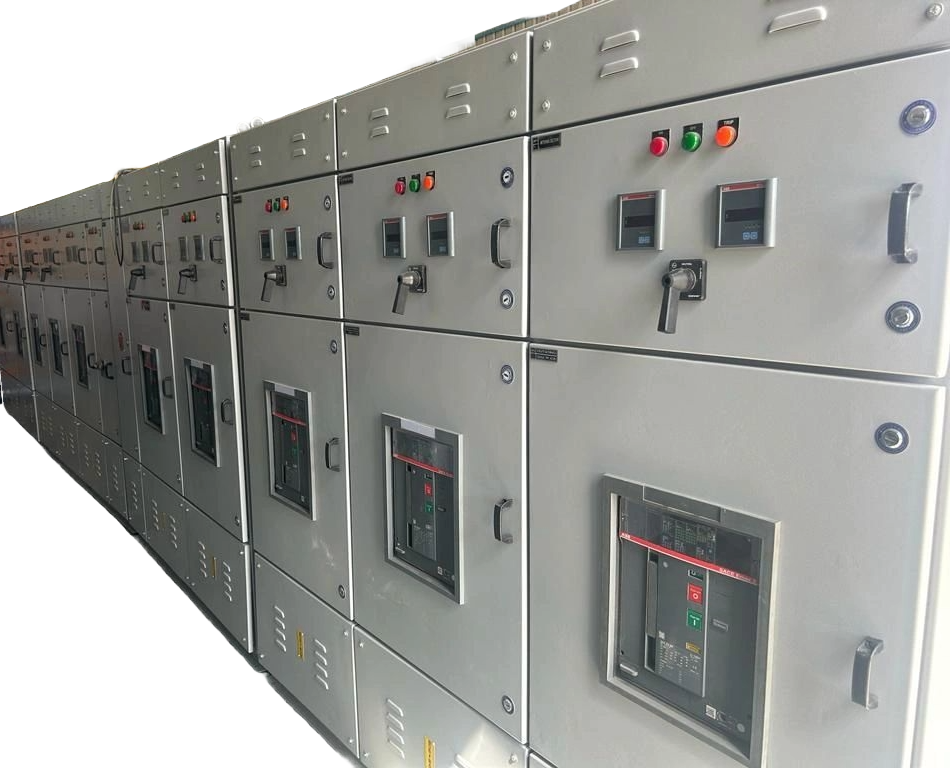
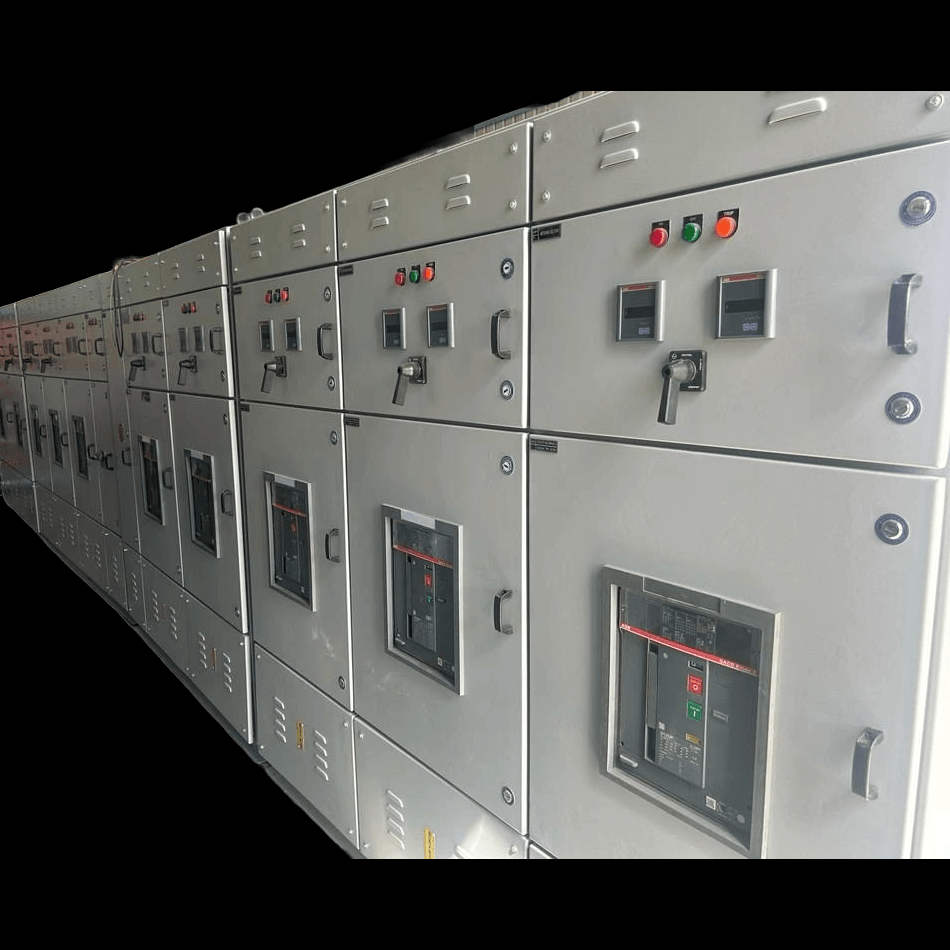
Final changes by client told at phone

diff --git a/automationControl.html b/automationControl.html
@@ -527,7 +527,7 @@
 
     <div class="categorySections" id="programablePanel">
       <div class="categoryImgCont">
-        <img src="assets/img/solutions/acAndMs/PLC PANEL.jpg"  alt="">
+        <img src="assets/img/solutions/acAndMs/PLC PANEL.png"  alt="">
       </div>
       <div class="categoryDescCont">
         <h2>Programmable Logic Controller (PLC) Panel</h2>
@@ -551,7 +551,7 @@
 
     <div class="categorySections" id="marshallingPanel">
       <div class="categoryImgCont">
-        <img src="assets/img/solutions/acAndMs/marshalling-panel.png"  alt="">
+        <img src="assets/img/solutions/acAndMs/marshalling-panel.jpg"  alt="">
       </div>
       <div class="categoryDescCont">
         <h2>Marshalling Panel</h2>
@@ -575,7 +575,7 @@
 
     <div class="categorySections" id="dcs">
       <div class="categoryImgCont">
-        <img src="assets/img/solutions/acAndMs/dcs-Photoroom1.png"alt="">
+        <img src="assets/img/solutions/acAndMs/dcs-Photoroom.png"alt="">
       </div>
       <div class="categoryDescCont">
         <h2>Distributed Control System (DCS)</h2>
@@ -587,7 +587,7 @@
 
     <div class="categorySections reverseCategorySection" id="ems">
         <div class="categoryImgCont">
-          <img src="assets/img/solutions/acAndMs/EMS-Photoroom.png" alt="">
+          <img src="assets/img/solutions/acAndMs/EMS.jpg" alt="">
         </div>
         <div class="categoryDescCont">
           <h2>Energy Management System (EMS)</h2>
@@ -599,7 +599,7 @@
   
       <div class="categorySections" id="supervisoryCADA">
         <div class="categoryImgCont">
-          <img src="assets/img/solutions/acAndMs/SCADA-Photoroom.png"alt="">
+          <img src="assets/img/solutions/acAndMs/SCADA.webp"alt="">
         </div>
         <div class="categoryDescCont">
           <h2>Supervisory Control and Data Acquisition (SCADA)</h2>
@@ -623,7 +623,7 @@
   
       <div class="categorySections" id="CMLVMotors">
         <div class="categoryImgCont">
-          <img src="assets/img/solutions/acAndMs/CONDITION MONITORING FOR MOTORS1.png"  alt="">
+          <img src="assets/img/solutions/acAndMs/CONDITION MONITORING FOR MOTORS.png"  alt="">
         </div>
         <div class="categoryDescCont">
           <h2>Condition Monitoring for LV Motors</h2>

diff --git a/lcAndMManagement.html b/lcAndMManagement.html
@@ -527,7 +527,7 @@
 
     <div class="categorySections" id="moCoPanel">
       <div class="categoryImgCont">
-        <img src="assets/img/solutions/lcAndMc/mcc Panel.jpg" style="border-radius: 0px;" alt="">
+        <img src="assets/img/solutions/lcAndMc/mcc Panel-Photoroom.png" alt="">
       </div>
       <div class="categoryDescCont">
         <h2>Motor Control Panels (DOL/Star-Delta/Softstarter/VFD based)</h2>
@@ -539,7 +539,7 @@
 
     <div class="categorySections reverseCategorySection" id="imccPanel">
       <div class="categoryImgCont">
-        <img src="assets/img/solutions/lcAndMc/IMCC.jpg" style="border-radius: 0px;" alt="">
+        <img src="assets/img/solutions/lcAndMc/IMCC-Photoroom.png"  alt="">
       </div>
       <div class="categoryDescCont">
         <h2>Intelligent Motor Control Centre (IMCC) Panel (ABB-UMC)</h2>
@@ -551,7 +551,7 @@
 
     <div class="categorySections" id="PDBPanel">
       <div class="categoryImgCont">
-        <img src="assets/img/solutions/lcAndMc/pdb pANEL.png" style="border-radius: 0px;" alt="">
+        <img src="assets/img/solutions/lcAndMc/pdb pANEL.png" alt="">
       </div>
       <div class="categoryDescCont">
         <h2>Power Distribution Board (PDB) Panel</h2>
@@ -563,7 +563,7 @@
 
     <div class="categorySections reverseCategorySection" id="LDBPanel">
       <div class="categoryImgCont">
-        <img src="assets/img/solutions/lcAndMc/Lighting Distribution Board (LDB) Panel.png" style="border-radius: 0px;" alt="">
+        <img src="assets/img/solutions/lcAndMc/Lighting Distribution Board (LDB) Panel.png"  alt="">
       </div>
       <div class="categoryDescCont">
         <h2>Lighting Distribution Board (LDB) Panel</h2>
@@ -587,7 +587,7 @@
 
     <div class="categorySections reverseCategorySection" id="JunctionBox">
         <div class="categoryImgCont">
-          <img src="assets/img/solutions/lcAndMc/JUNCTION BOX.webp" style="border-radius: 0px;" alt="">
+          <img src="assets/img/solutions/lcAndMc/JUNCTION BOX-Photoroom.png" alt="">
         </div>
         <div class="categoryDescCont">
           <h2>Junction Boxes</h2>

diff --git a/emergencyPowerDS.html b/emergencyPowerDS.html
@@ -527,7 +527,7 @@
 
     <div class="categorySections" id="dgSPanel">
       <div class="categoryImgCont">
-        <img src="assets/img/solutions/epd/DG-Synchronization-Panel-Wt.jpg" style="border-radius: 0px;" alt="">
+        <img src="assets/img/solutions/epd/DG-Synchronization-Panel-Wt-Photoroom.png" alt="">
       </div>
       <div class="categoryDescCont">
         <h2>DG Synchronization Panel</h2>
@@ -539,7 +539,7 @@
 
     <div class="categorySections reverseCategorySection" id="amfPanel">
       <div class="categoryImgCont">
-        <img src="assets/img/solutions/epd/AMF PAnel.png" style="border-radius: 0px;" alt="">
+        <img src="assets/img/solutions/epd/AMF PAnel-Photoroom.png"  alt="">
       </div>
       <div class="categoryDescCont">
         <h2>Automatic Mains Failure (AMF) Panel</h2>
@@ -551,7 +551,7 @@
 
     <div class="categorySections" id="pccPanel">
       <div class="categoryImgCont">
-        <img src="assets/img/solutions/epd/emg PCC.png" style="border-radius: 0px;" alt="">
+        <img src="assets/img/solutions/epd/emg PCC-Photoroom.png" alt="">
       </div>
       <div class="categoryDescCont">
         <h2>Emergency Power Control Centre (PCC) Panel</h2>
@@ -563,7 +563,7 @@
 
     <div class="categorySections reverseCategorySection" id="ModularUps">
       <div class="categoryImgCont">
-        <img src="assets/img/solutions/epd/ups.jpg" style="border-radius: 0px;" alt="">
+        <img src="assets/img/solutions/epd/ups.jpg" alt="">
       </div>
       <div class="categoryDescCont">
         <h2>Modular Uninterruptible Power Supply (UPS)</h2>

diff --git a/distributionSolution.html b/distributionSolution.html
@@ -552,7 +552,7 @@
 
     <div class="categorySections" id="converterDtrans">
       <div class="categoryImgCont">
-        <img src="assets/img/solutions/distribution/300-kva-dry-type-transformer-500x500.jpg" alt="">
+        <img src="assets/img/solutions/distribution/300-kva-dry-type-transformer-500x500-Photoroom.png" alt="">
       </div>
       <div class="categoryDescCont">
         <h2>Converter Duty Transformer</h2>
